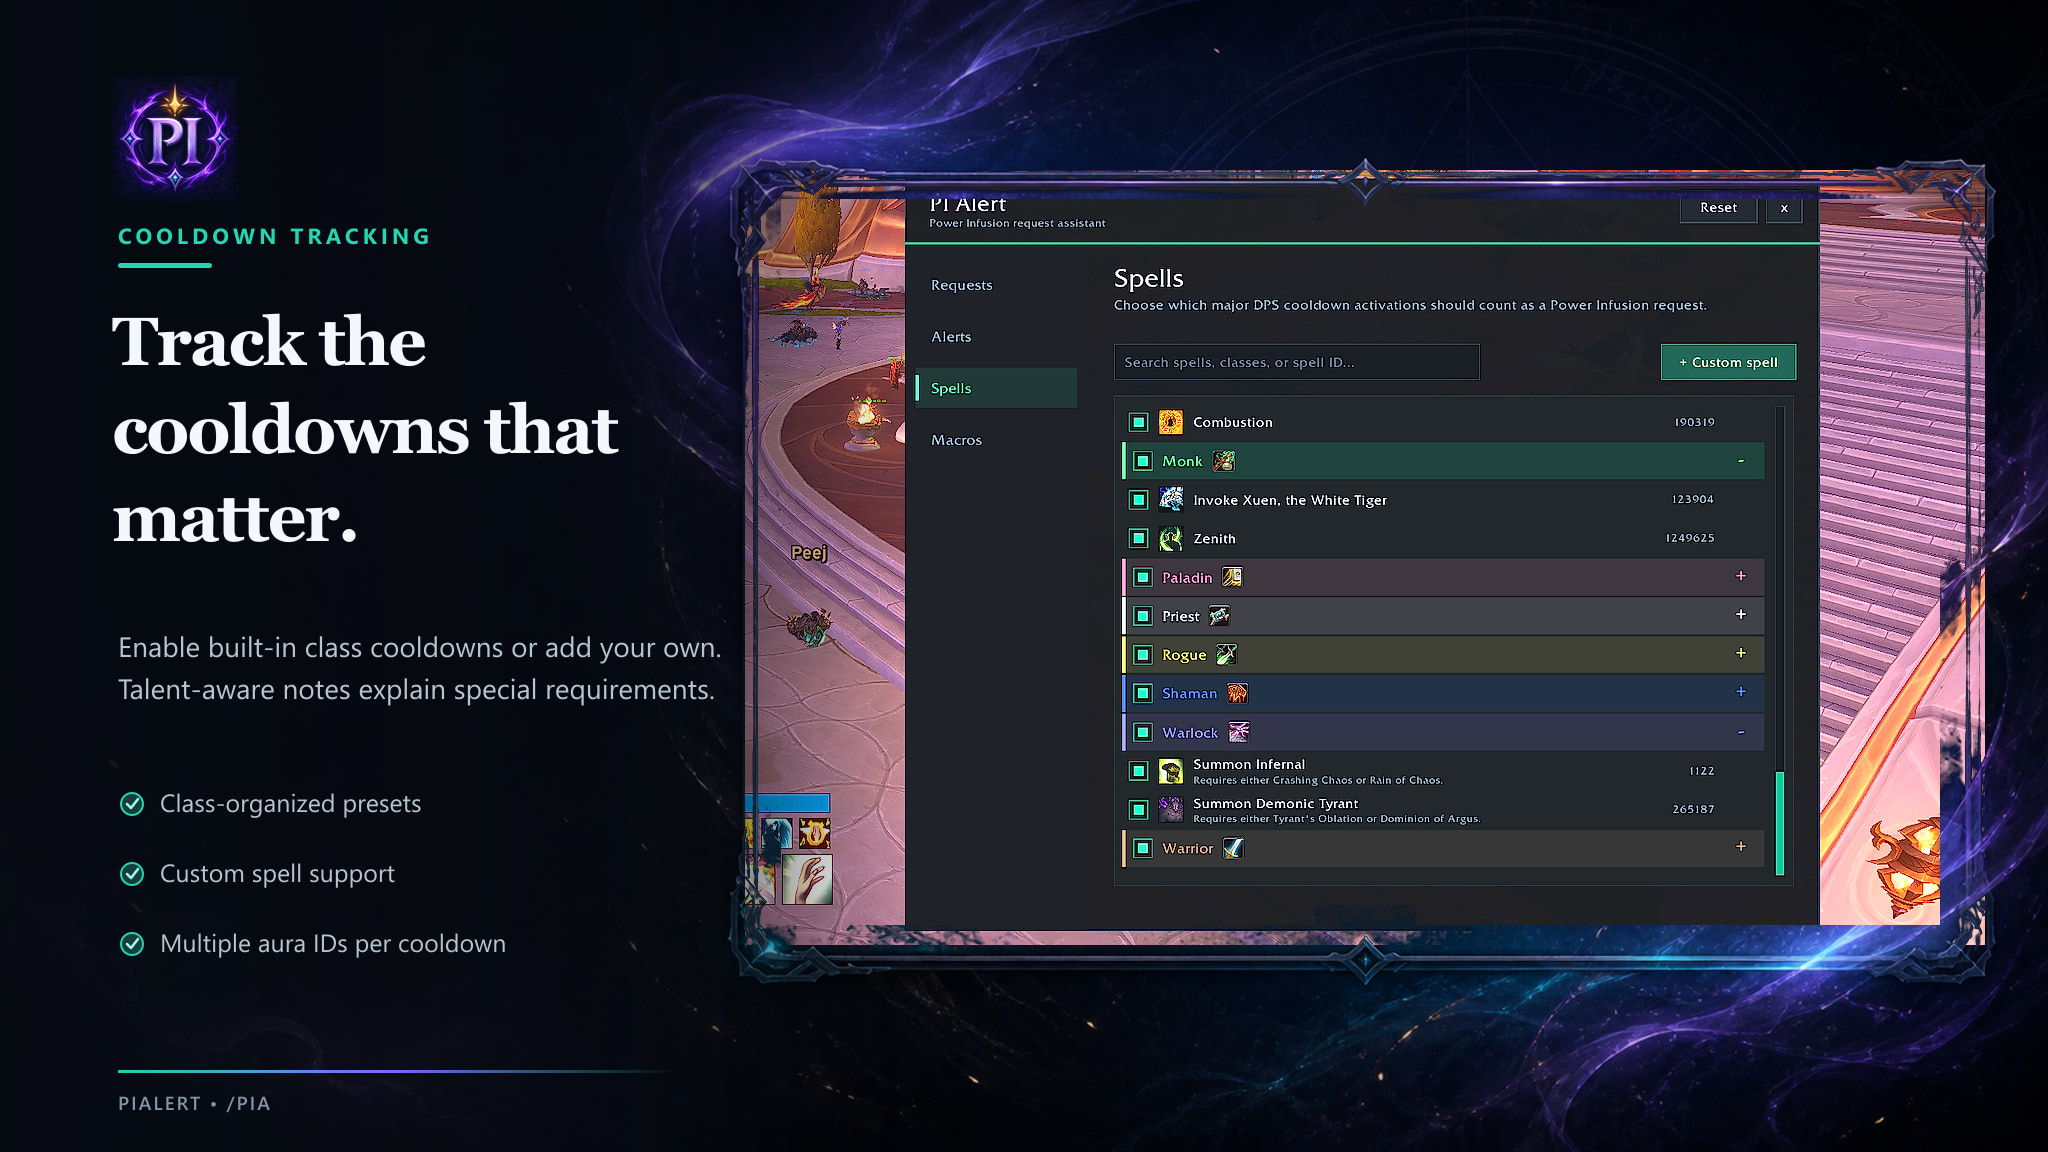
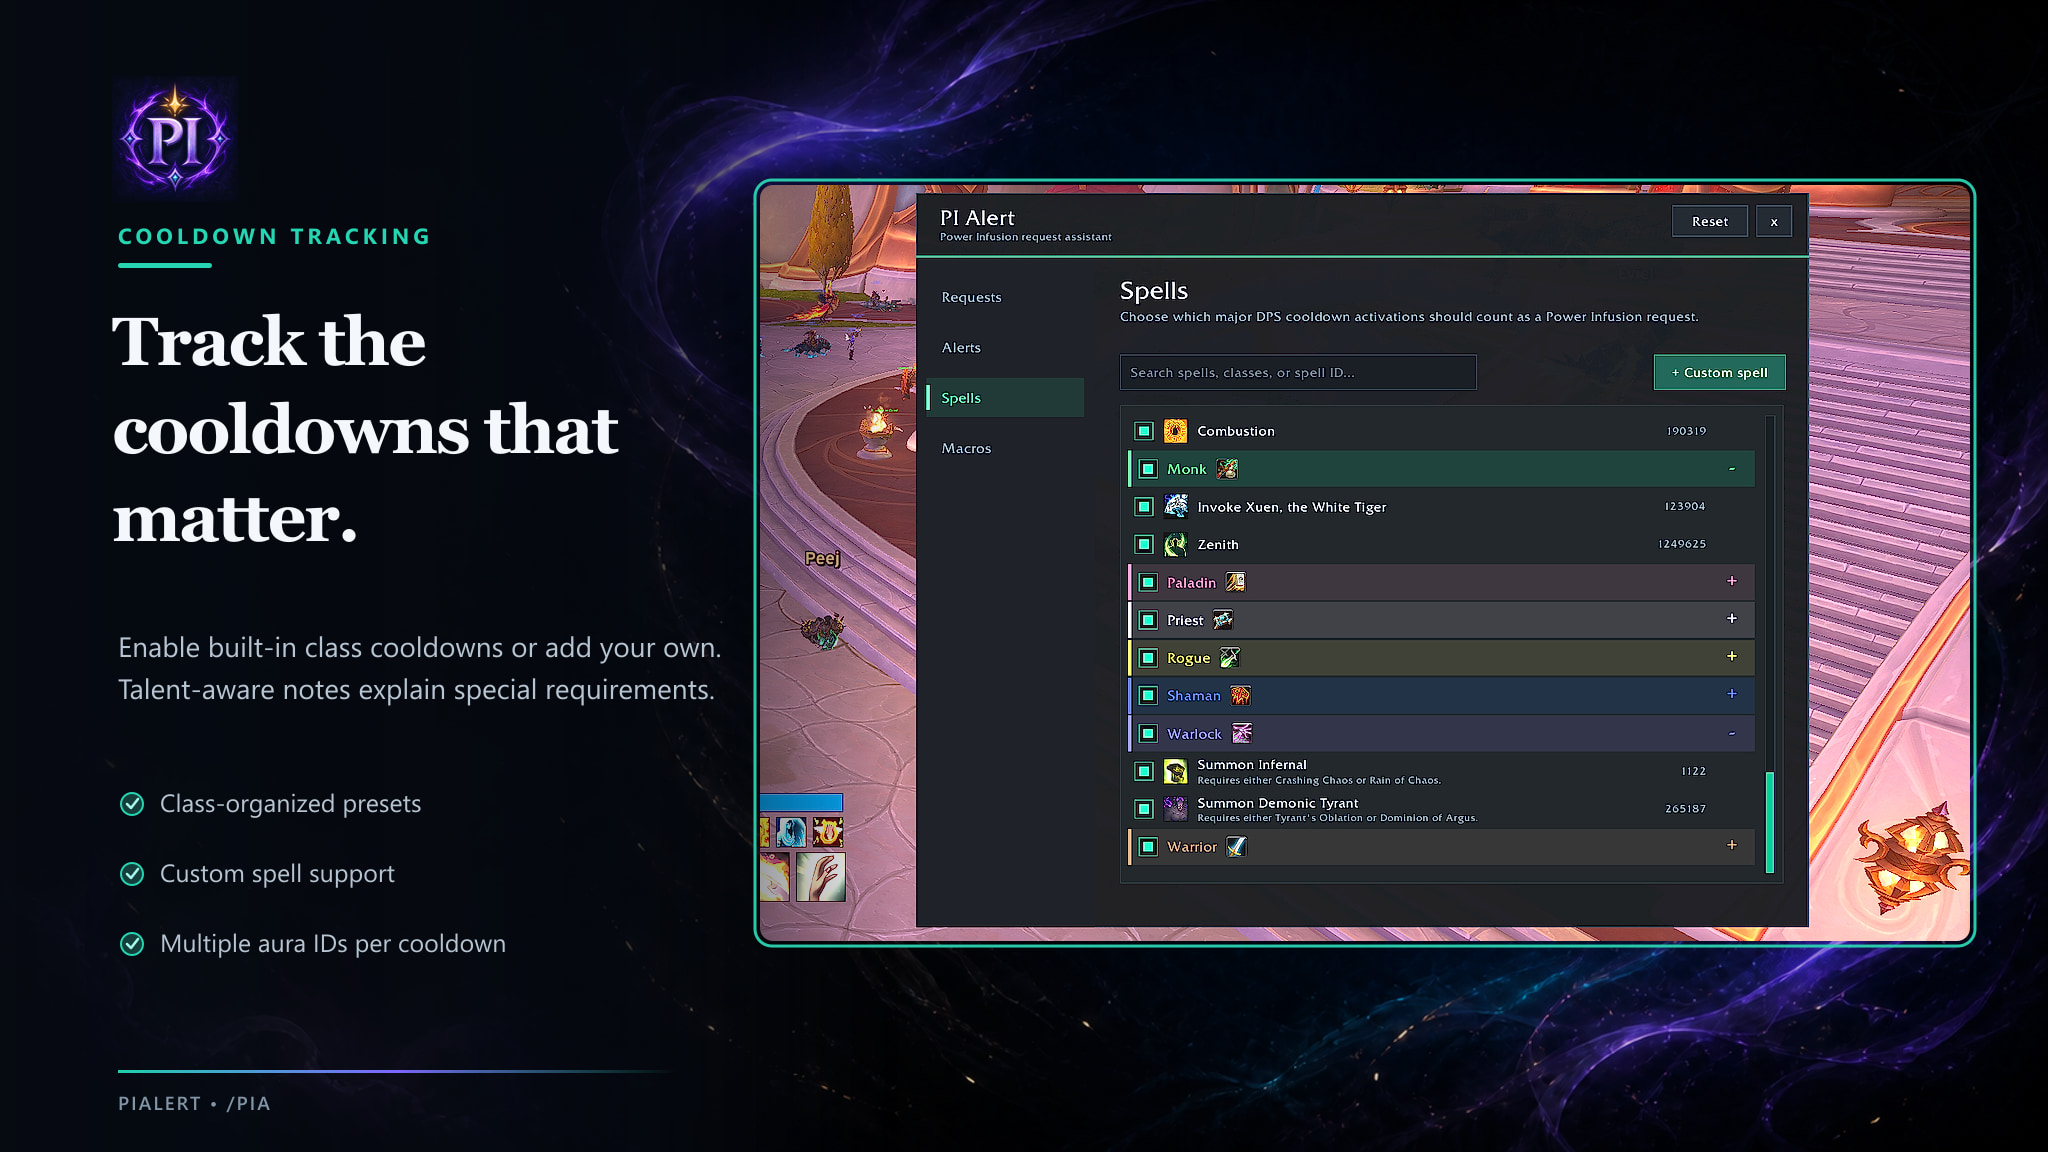
Replace framed gallery backdrop
Recreate the PIAlert gallery background without the ornamental frame, restore a clean rounded teal screenshot border, remove the overlay that darkened in-game captures, and keep the PI mark blended into the backdrop.

diff --git a/Branding/CurseForge/build-gallery.js b/Branding/CurseForge/build-gallery.js
@@ -3,7 +3,7 @@ const sharp = require("sharp");
 
 const ROOT = __dirname;
 const OUT = path.join(ROOT, "gallery");
-const BACKGROUND = path.join(ROOT, "assets", "gallery-background.png");
+const BACKGROUND = path.join(ROOT, "assets", "gallery-background-frameless.png");
 const LOGO = path.join(ROOT, "assets", "pialert-mark.png");
 const SCREENSHOTS = "C:\\Program Files (x86)\\World of Warcraft\\_retail_\\Screenshots";
 
@@ -25,7 +25,7 @@ const slides = [
     output: "01-pialert-hero.jpg",
     source: "WoWScrnShot_082726_170152.jpg",
     crop: { left: 1600, top: 210, width: 1856, height: 1160 },
-    shot: { x: 745, y: 170, width: 1240, height: 775 },
+    shot: { x: 760, y: 185, width: 1210, height: 756 },
     eyebrow: "POWER INFUSION ASSISTANT",
     title: ["Give PI to the", "right player."],
     body: [
@@ -39,7 +39,7 @@ const slides = [
     output: "02-alerts.jpg",
     source: "WoWScrnShot_082726_170024.jpg",
     crop: { left: 2659, top: 125, width: 1512, height: 945 },
-    shot: { x: 745, y: 170, width: 1240, height: 775 },
+    shot: { x: 760, y: 185, width: 1210, height: 756 },
     eyebrow: "CUSTOM ALERTS",
     title: ["Never miss", "a PI request."],
     body: [
@@ -52,7 +52,7 @@ const slides = [
     output: "03-requests.jpg",
     source: "WoWScrnShot_082726_170021.jpg",
     crop: { left: 2659, top: 125, width: 1512, height: 945 },
-    shot: { x: 745, y: 170, width: 1240, height: 775 },
+    shot: { x: 760, y: 185, width: 1210, height: 756 },
     eyebrow: "REQUEST CONTROL",
     title: ["You decide who", "can ask for PI."],
     body: [
@@ -65,7 +65,7 @@ const slides = [
     output: "04-spells.jpg",
     source: "WoWScrnShot_082726_170044.jpg",
     crop: { left: 2659, top: 125, width: 1512, height: 945 },
-    shot: { x: 745, y: 170, width: 1240, height: 775 },
+    shot: { x: 760, y: 185, width: 1210, height: 756 },
     eyebrow: "COOLDOWN TRACKING",
     title: ["Track the", "cooldowns that", "matter."],
     body: [
@@ -78,7 +78,7 @@ const slides = [
     output: "05-macros.jpg",
     source: "WoWScrnShot_082726_170047.jpg",
     crop: { left: 2659, top: 125, width: 1512, height: 945 },
-    shot: { x: 745, y: 170, width: 1240, height: 775 },
+    shot: { x: 760, y: 185, width: 1210, height: 756 },
     eyebrow: "BUILT-IN MACROS",
     title: ["One click to the", "right target."],
     body: [
@@ -157,6 +157,7 @@ function overlaySvg(slide) {
         </filter>
       </defs>
       <rect x="0" y="0" width="900" height="1152" fill="url(#leftShade)"/>
+      <rect x="${slide.shot.x - 5}" y="${slide.shot.y - 5}" width="${slide.shot.width + 10}" height="${slide.shot.height + 10}" rx="17" fill="none" stroke="#2bd3b2" stroke-width="3" opacity="0.95"/>
       <rect x="118" y="${accentY}" width="94" height="5" rx="2.5" fill="${COLORS.teal}"/>
       <text x="118" y="244" fill="${COLORS.teal}" font-family="Segoe UI, Arial, sans-serif" font-size="22" font-weight="700" letter-spacing="4">${escapeXml(slide.eyebrow)}</text>
       ${textLines(slide.title, 112, titleStart, { size: slide.eyebrow === "COOLDOWN TRACKING" ? 68 : 76, gap: titleGap, weight: 650, family: "Georgia, serif", spacing: -2 })}
@@ -167,54 +168,6 @@ function overlaySvg(slide) {
       <text x="118" y="1110" fill="${COLORS.muted}" font-family="Segoe UI, Arial, sans-serif" font-size="19" font-weight="600" letter-spacing="2">PIALERT  •  /PIA</text>
     </svg>
   `);
-}
-
-let frameOverlayPromise;
-
-function frameOverlayBuffer() {
-  if (!frameOverlayPromise) {
-    frameOverlayPromise = (async () => {
-      const source = await sharp(BACKGROUND)
-        .resize(WIDTH, HEIGHT, { fit: "cover" })
-        .ensureAlpha()
-        .raw()
-        .toBuffer({ resolveWithObject: true });
-      const overlay = Buffer.alloc(source.data.length);
-
-      for (let y = 0; y < HEIGHT; y += 1) {
-        for (let x = 0; x < WIDTH; x += 1) {
-          const inFrameBounds = x >= 690 && x <= 2015 && y >= 130 && y <= 995;
-          const inFrameBand = inFrameBounds && (
-            y <= 198 ||
-            y >= 925 ||
-            x <= 780 ||
-            x >= 1940 ||
-            (x >= 1315 && x <= 1415 && y <= 220) ||
-            (x >= 1315 && x <= 1415 && y >= 905)
-          );
-          if (!inFrameBand) continue;
-
-          const index = (y * WIDTH + x) * 4;
-          const red = source.data[index];
-          const green = source.data[index + 1];
-          const blue = source.data[index + 2];
-          const peak = Math.max(red, green, blue);
-          const chroma = peak - Math.min(red, green, blue);
-          const alpha = Math.max(0, Math.min(255, (peak - 48) * 12 + chroma * 3));
-
-          overlay[index] = red;
-          overlay[index + 1] = green;
-          overlay[index + 2] = blue;
-          overlay[index + 3] = alpha;
-        }
-      }
-
-      return sharp(overlay, {
-        raw: { width: WIDTH, height: HEIGHT, channels: 4 },
-      }).png().toBuffer();
-    })();
-  }
-  return frameOverlayPromise;
 }
 
 async function screenshotBuffer(slide) {
@@ -229,12 +182,12 @@ async function screenshotBuffer(slide) {
     .sharpen({ sigma: 0.8 })
     .png()
     .toBuffer();
-  return image;
+  const mask = Buffer.from(`<svg width="${width}" height="${height}" xmlns="http://www.w3.org/2000/svg"><rect width="${width}" height="${height}" rx="13" fill="white"/></svg>`);
+  return sharp(image).composite([{ input: mask, blend: "dest-in" }]).png().toBuffer();
 }
 
 async function buildSlide(slide) {
   const screenshot = await screenshotBuffer(slide);
-  const frameOverlay = await frameOverlayBuffer();
   const logo = await sharp(LOGO)
     .resize(126, 126, { fit: "cover" })
     .png()
@@ -245,7 +198,6 @@ async function buildSlide(slide) {
     .modulate({ brightness: 0.84, saturation: 0.9 })
     .composite([
       { input: screenshot, left: slide.shot.x, top: slide.shot.y },
-      { input: frameOverlay, left: 0, top: 0 },
       { input: overlaySvg(slide), left: 0, top: 0 },
       { input: logo, left: 112, top: 76, blend: "screen" },
     ])

diff --git a/Branding/CurseForge/README.md b/Branding/CurseForge/README.md
@@ -23,8 +23,12 @@ Final 2048×1152 JPEGs are written to `Branding/CurseForge/gallery`.
 
 The 5120×1440 source screenshots remain in the World of Warcraft screenshot folder and are not committed to keep the repository lightweight.
 
-## Generated backdrop
+## Generated backdrops
 
-The abstract background was generated with the built-in image-generation tool using this direction:
+`gallery-background.png` is the original framed composition. The gallery currently uses
+`gallery-background-frameless.png`, which preserves the same atmosphere without the
+ornamental frame so the build script can place a clean teal border around each screenshot.
 
-> A premium 16:9 PIAlert gallery backdrop with a deep charcoal and midnight-indigo field, restrained violet magical ribbons, subtle teal edge lighting, warm-gold sparks, a calm dark headline area, and an illuminated screenshot region; no text, characters, logos, spell icons, or watermark.
+The active abstract background was generated with the built-in image-generation tool using this direction:
+
+> Remove the entire ornamental frame and reconstruct those areas as a seamless continuation of the existing dark charcoal, midnight-indigo, violet-energy backdrop. Preserve the palette, lighting, sparse gold sparks, calm headline area, and premium game-interface mood. Do not add a replacement frame, border, panel, UI, text, logo, or watermark.
